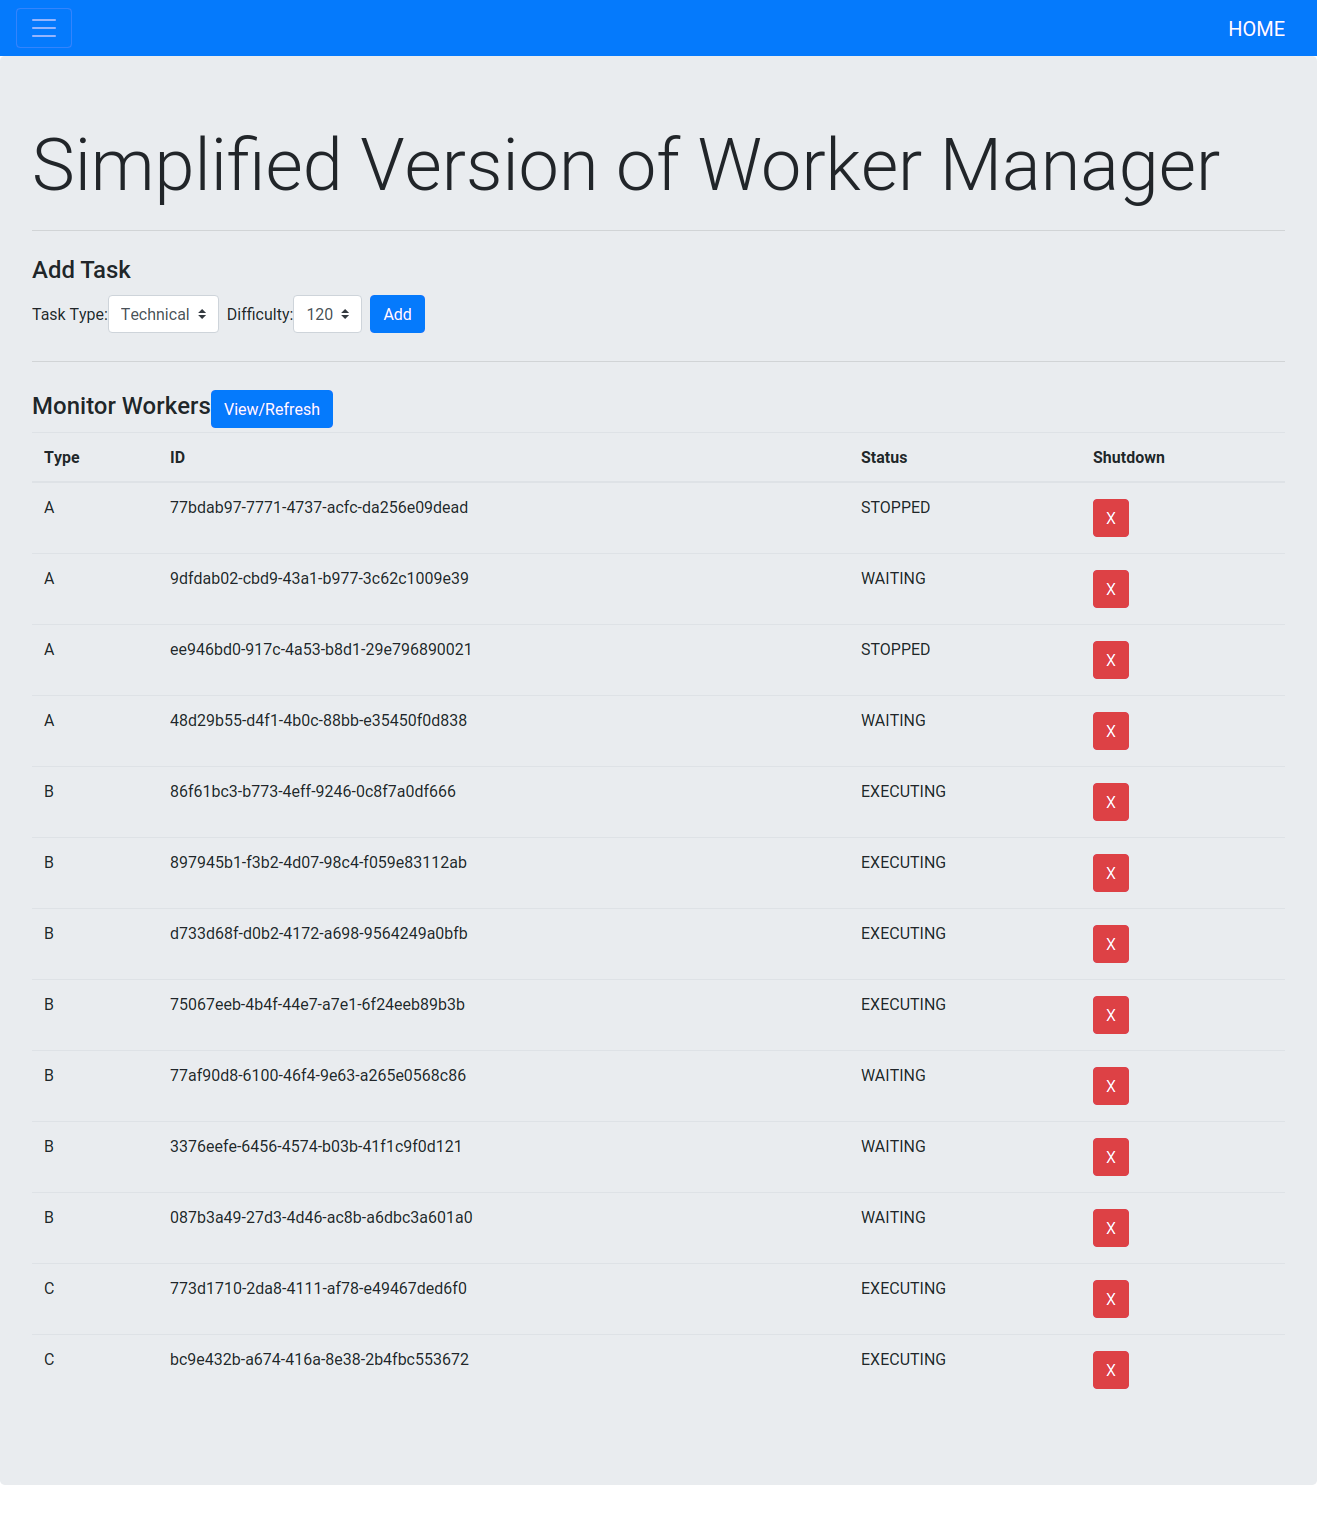
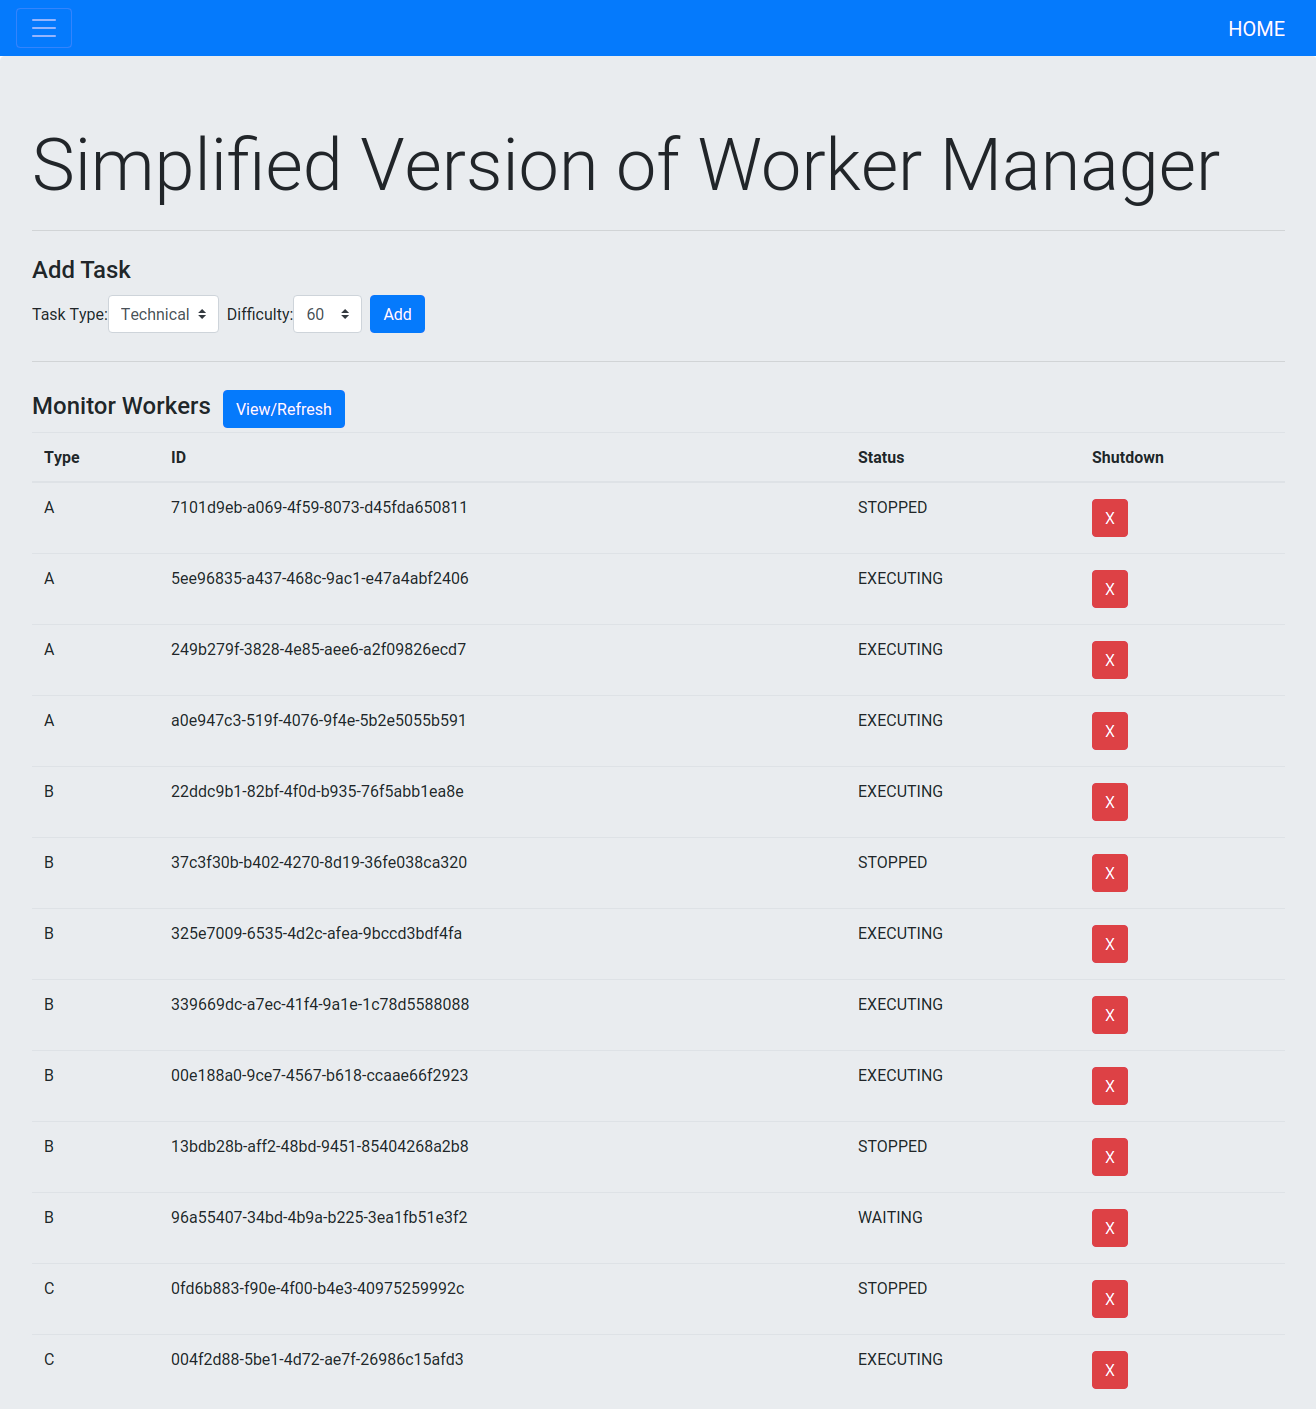
update layout

diff --git a/templates/home.html b/templates/home.html
@@ -173,7 +173,7 @@ function shutdownWorker(event) {
     <hr class="my-4">
 
     <form class="form-inline" id="worker-form" action="/" method="POST">
-      <h4>Monitor Workers</h4>
+      <h4>Monitor Workers  &nbsp;</h4>
       <button type="submit" class="btn btn-primary my-1 mr-sm-2">View/Refresh</button>
     </form>
 
